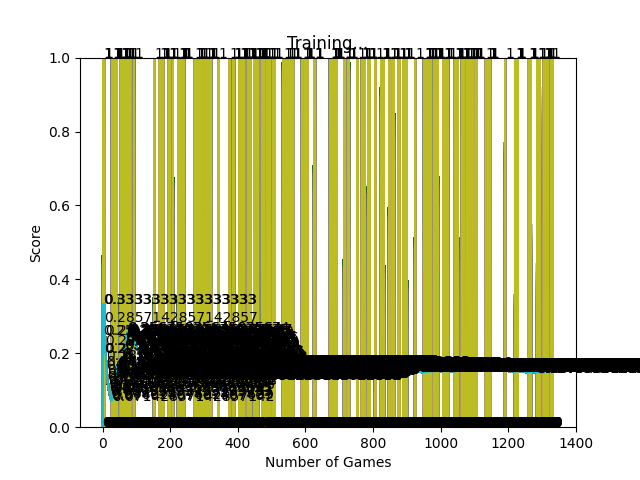
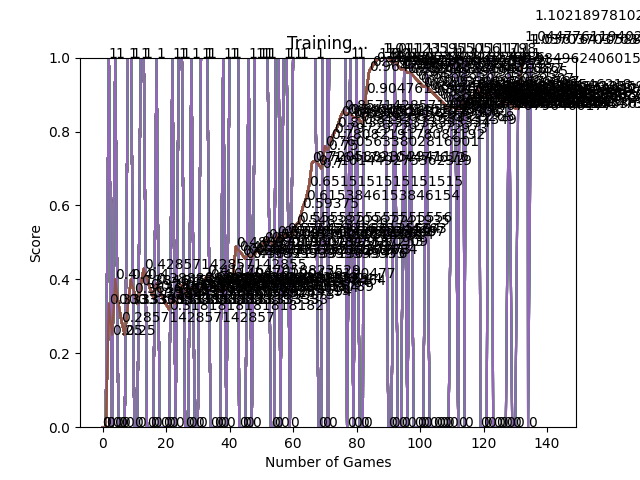
Fixed error of reward not being reset after each step

diff --git a/Model.py b/Model.py
@@ -102,7 +102,7 @@ class QTrainer():
             if not done[index]:
                 QNew = reward[index] + self.gamma * torch.max(self.model(nextState[index]))
 
-            target[index][torch.argmax(finalAction).item()] = QNew
+            target[index][torch.argmax(finalAction[index]).item()] = QNew
 
         # Q-New = Reward + Gamma * max(Next Predicted Q-Value
         # pred.clone()

diff --git a/PlayerState.py b/PlayerState.py
@@ -73,6 +73,12 @@ class PlayerState(State):
         """
         return self.gameOver, self.score
 
+    def resetReward(self):
+        """
+        Does nothing, only for the AI State
+        """
+        pass
+
     def reset(self):
         """
         Resets the game state

diff --git a/AIState.py b/AIState.py
@@ -82,6 +82,12 @@ class AIState(State):
         else:
             self.snake.popBody()
 
+    def resetReward(self):
+        """
+        Resets the reward to 0
+        """
+        self.reward = 0
+
     def reset(self):
         """
         Resets the game state

diff --git a/SnakeGame.py b/SnakeGame.py
@@ -75,6 +75,7 @@ class SnakeGame:
         """
         # Increment frame iteration
         self.state.frameIteration += 1
+        self.state.resetReward()
 
         # If ai controlled no user input hence just passes
         self.state.setDirection()
